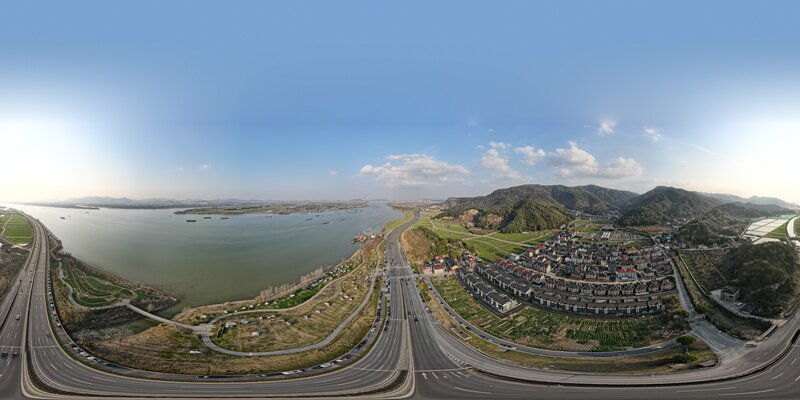
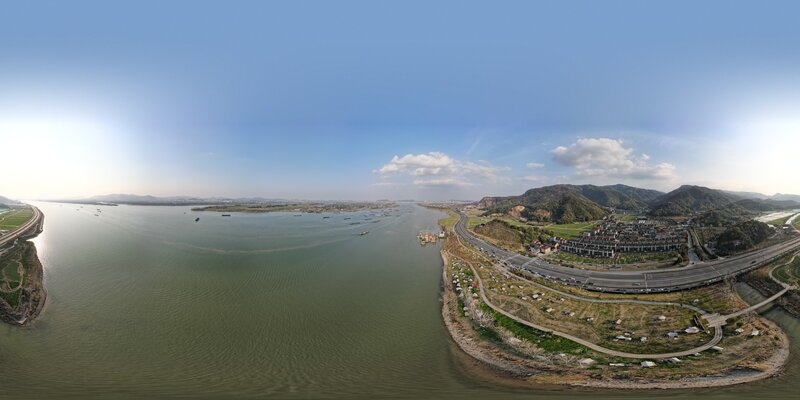
fix: 替换富春江畔全景图片为新照片，并同步更新拍摄时间与坐标

diff --git a/content/sky-eye/fuchun-river.md b/content/sky-eye/fuchun-river.md
@@ -1,10 +1,10 @@
 ---
 title: "富春江畔"
-date: 2025-03-01T16:32:47+08:00
+date: 2025-03-01T16:22:47+08:00
 description: "一处在富春江畔的免费露营地，在河西船厂附近，工作日人少，可以野外办公一下午。"
 thumbnail: "/images/sky-eye/fuchun-river-thumb.jpg"
 panorama_image: "/images/sky-eye/optimized/fuchun-river.webp"
 location: "浙江省杭州市富春江畔河西船厂附近"
-coordinates: "30.074806,120.113125"
+coordinates: "30.076036,120.113078"
 draft: false
 ---
